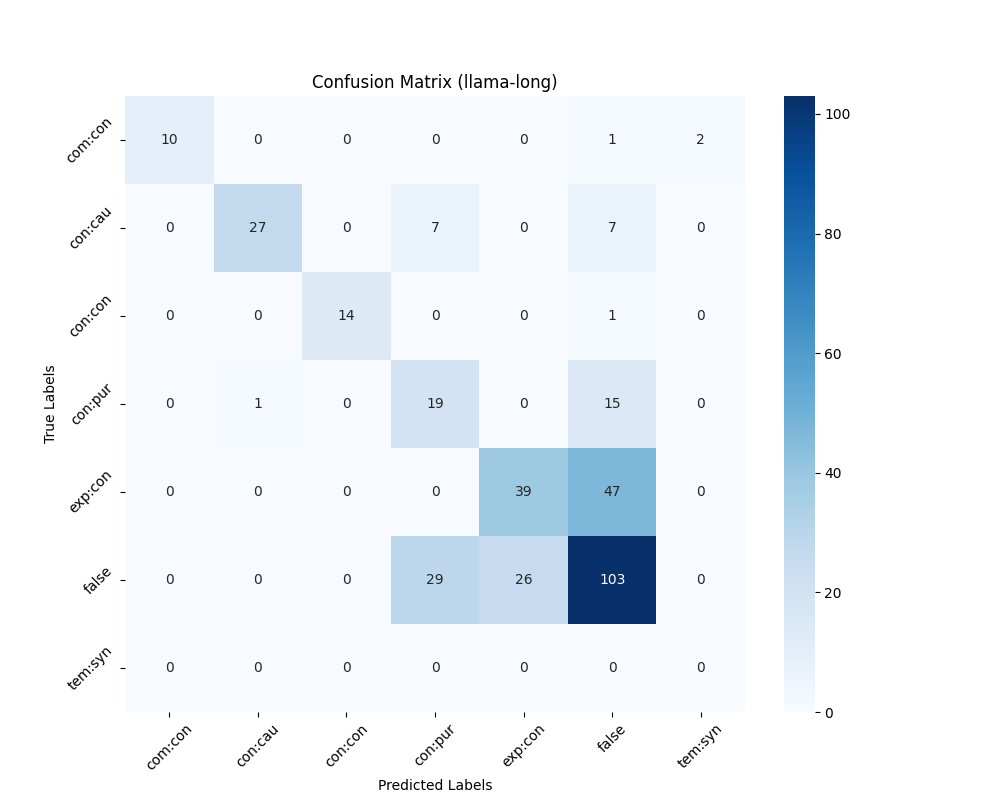
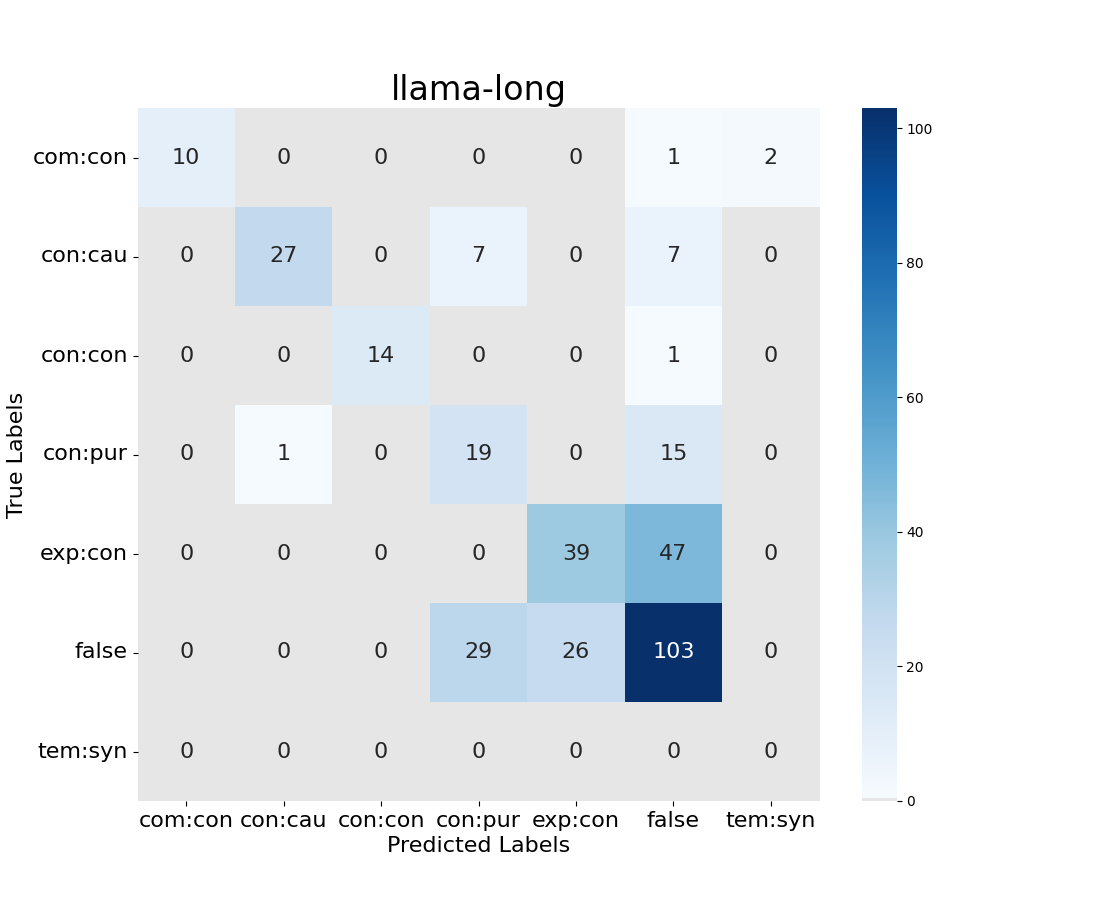
increase label size and add grey zeros for publication

diff --git a/evaluate.py b/evaluate.py
@@ -3,6 +3,7 @@ from collections import Counter
 from sklearn.metrics import precision_score, recall_score, f1_score, confusion_matrix, classification_report
 import numpy as np
 import matplotlib.pyplot as plt
+import matplotlib.colors as mcolors
 import seaborn as sns
 import os
 
@@ -24,7 +25,7 @@ possible_results = {
 
 abstention_label = "false"
 threshold = 10
-problematic_expressions = {"e", "per"}
+problematic_expressions = {}
 
 def shorten_res(original_result):
     if ":" in original_result:
@@ -171,15 +172,24 @@ for llm in ["llama", "openai"]:
             print("\nConfusion Matrix:")
             print(conf_df)
 
-            plt.figure(figsize=(10, 8))
-            sns.heatmap(conf_df, annot=True, fmt="d", cmap="Blues", xticklabels=labels, yticklabels=labels)
+            plt.figure(figsize=(11, 9))
+            cmap = plt.cm.Blues
+            newcolors = cmap(np.linspace(0, 1, 256))
+            newcolors[0, :] = np.array([0.9, 0.9, 0.9, 1])  # light grey for zeros
+            newcmp = mcolors.ListedColormap(newcolors)
+            ax = sns.heatmap(conf_df, annot=True, fmt="d", cmap=newcmp, xticklabels=labels, yticklabels=labels, 
+                             annot_kws={"size": 16})
+            #sns.heatmap(conf_df, annot=True, fmt="d", cmap="Blues", xticklabels=labels, yticklabels=labels)
 
-            plt.xlabel("Predicted Labels")
-            plt.ylabel("True Labels")
-            plt.title(f"Confusion Matrix ({llm}-{prompt} - {exp_name})")
-            plt.xticks(rotation=45)
-            plt.yticks(rotation=45)
-            plt.show()
+            plt.xlabel("Predicted Labels", fontsize=16)
+            plt.ylabel("True Labels", fontsize=16)
+            plt.title(f"{llm}-{prompt}", fontsize=24)
+            ax.tick_params(axis='x', labelsize=16)
+            ax.tick_params(axis='y', labelsize=16, rotation=0)
+            #plt.xticks(rotation=45, fontsize=11)
+            #plt.yticks(rotation=45, fontsize=11)
+            #plt.show()
+            plt.savefig(f"img/{llm}-{prompt}.png")
 
             # Print Classification Report
             print("\nClassification Report:")
